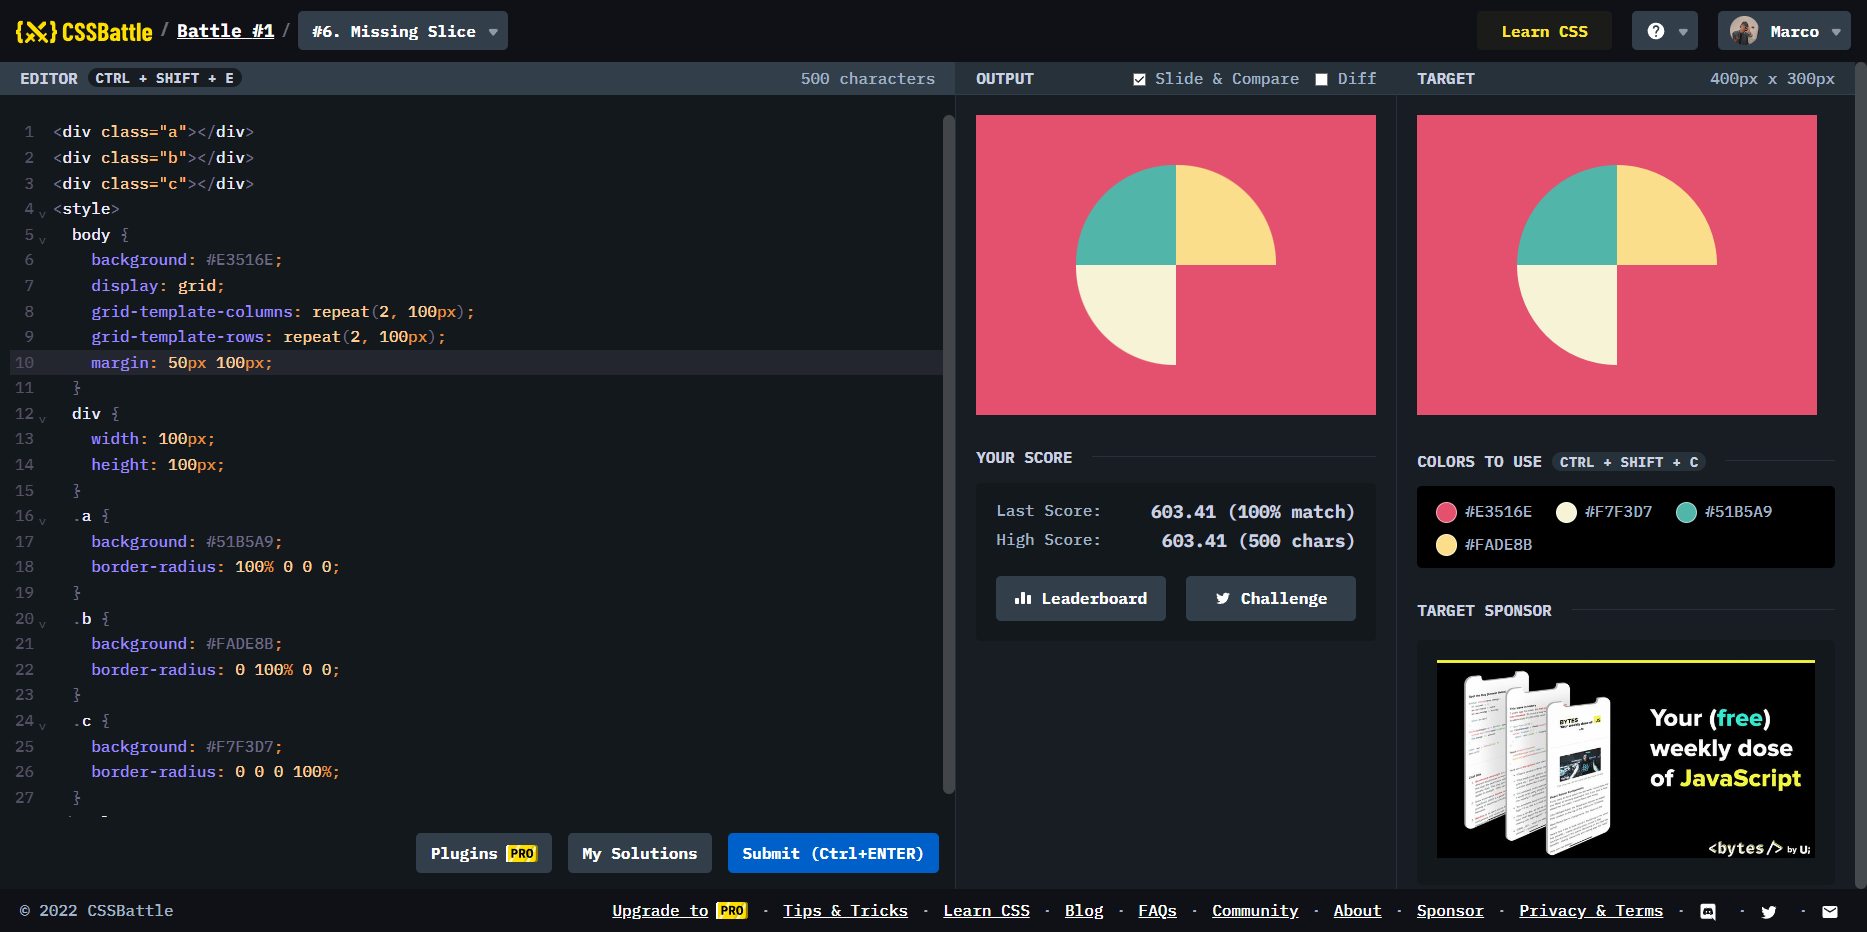
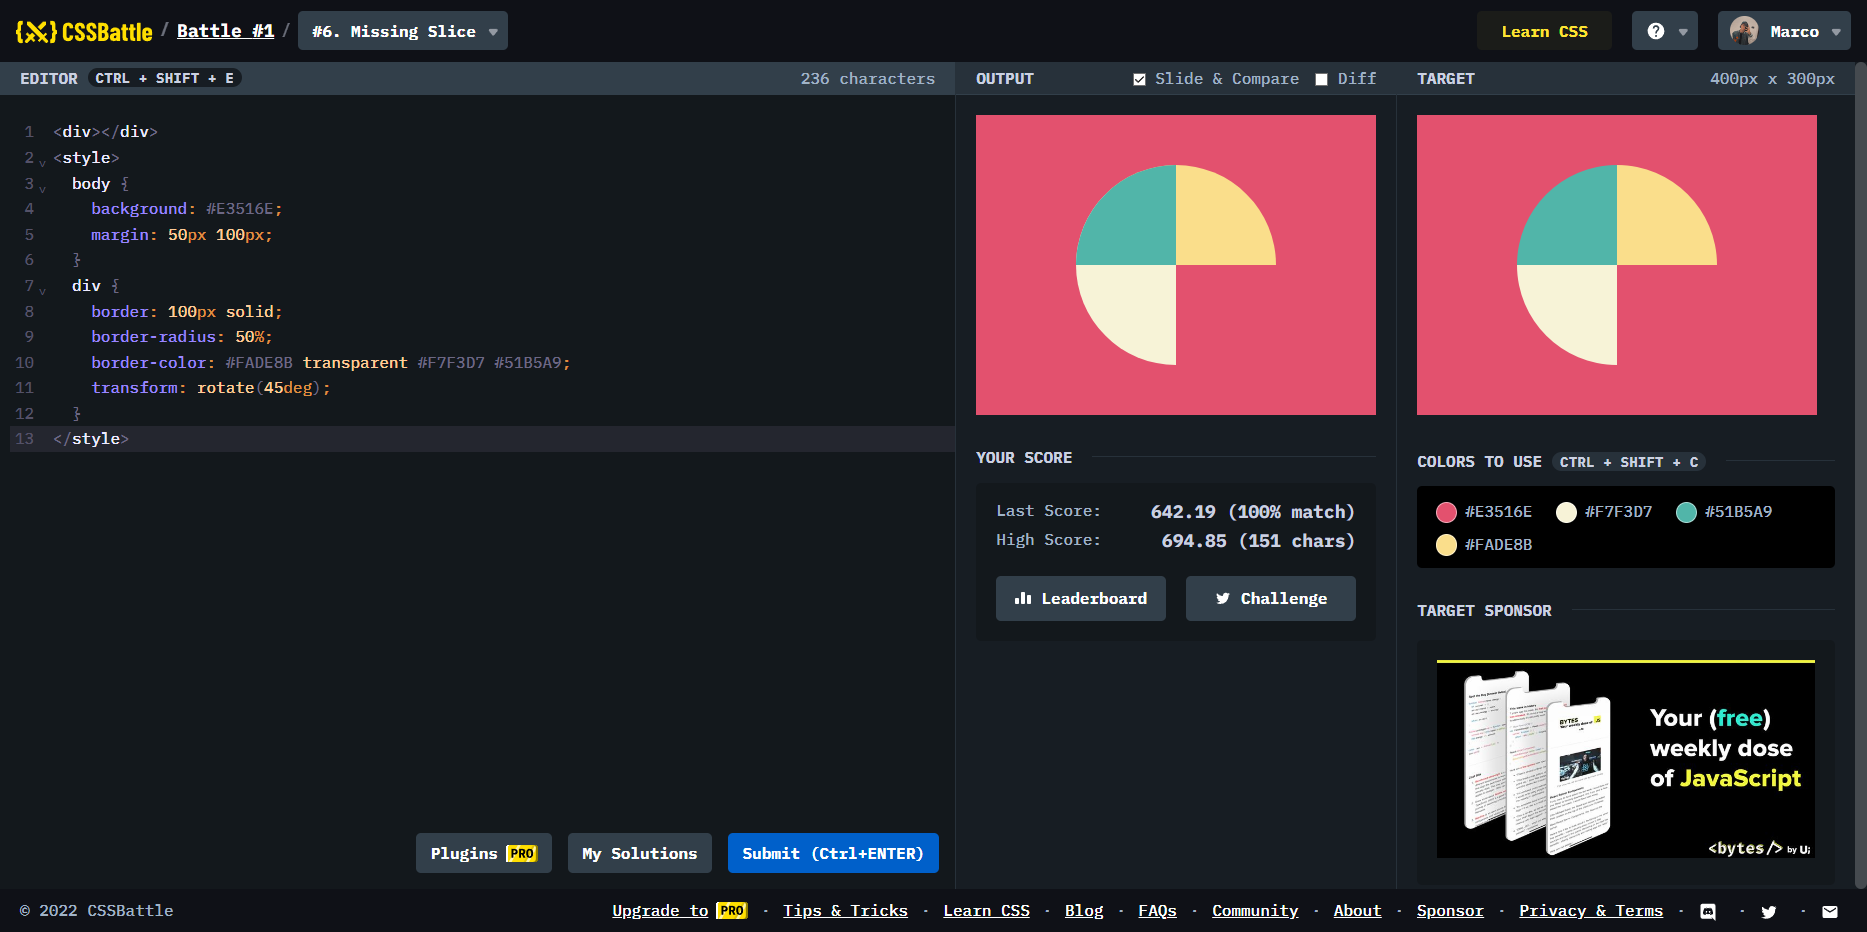
update exercise

diff --git a/solutions/01 - Pilot Battle/06_missing-slice.md b/solutions/01 - Pilot Battle/06_missing-slice.md
@@ -7,32 +7,17 @@
 ![result](./images/06_missing-slice.png)
 
 ```html
-<div class="a"></div>
-<div class="b"></div>
-<div class="c"></div>
+<div></div>
 <style>
   body {
     background: #E3516E;
-    display: grid;
-    grid-template-columns: repeat(2, 100px);
-    grid-template-rows: repeat(2, 100px);
     margin: 50px 100px;
   }
   div {
-    width: 100px;
-    height: 100px;
-  }
-  .a {
-    background: #51B5A9;
-    border-radius: 100% 0 0 0;
-  }
-  .b {
-    background: #FADE8B;
-    border-radius: 0 100% 0 0;
-  }
-  .c {
-    background: #F7F3D7;
-    border-radius: 0 0 0 100%;
+    border: 100px solid;
+    border-radius: 50%;
+    border-color: #FADE8B transparent #F7F3D7 #51B5A9;
+    transform: rotate(45deg);
   }
 </style>
 ```
